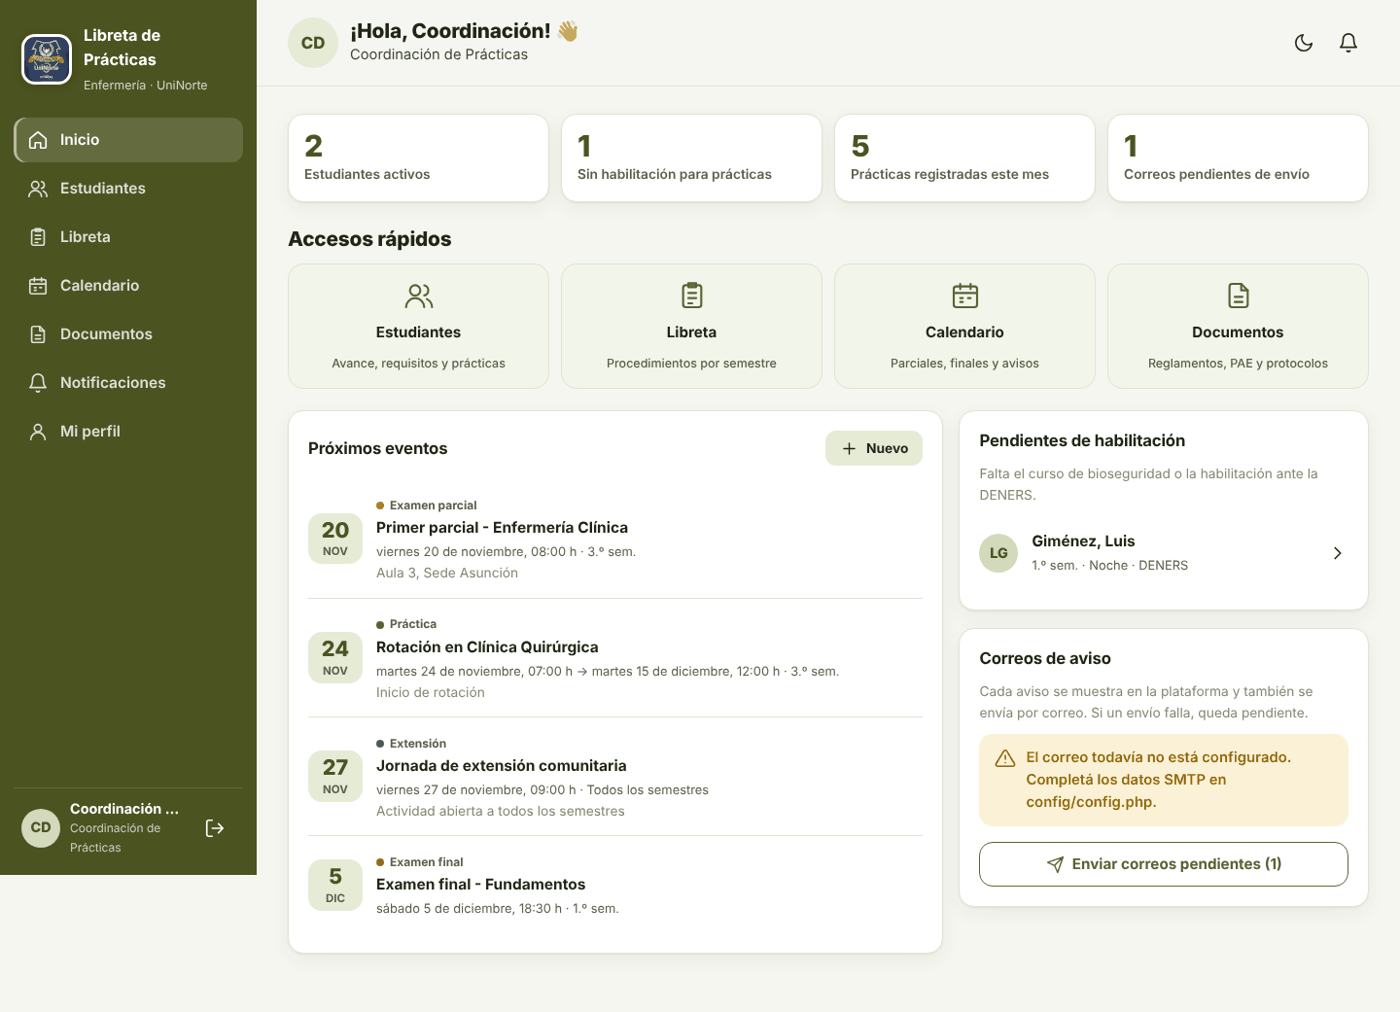
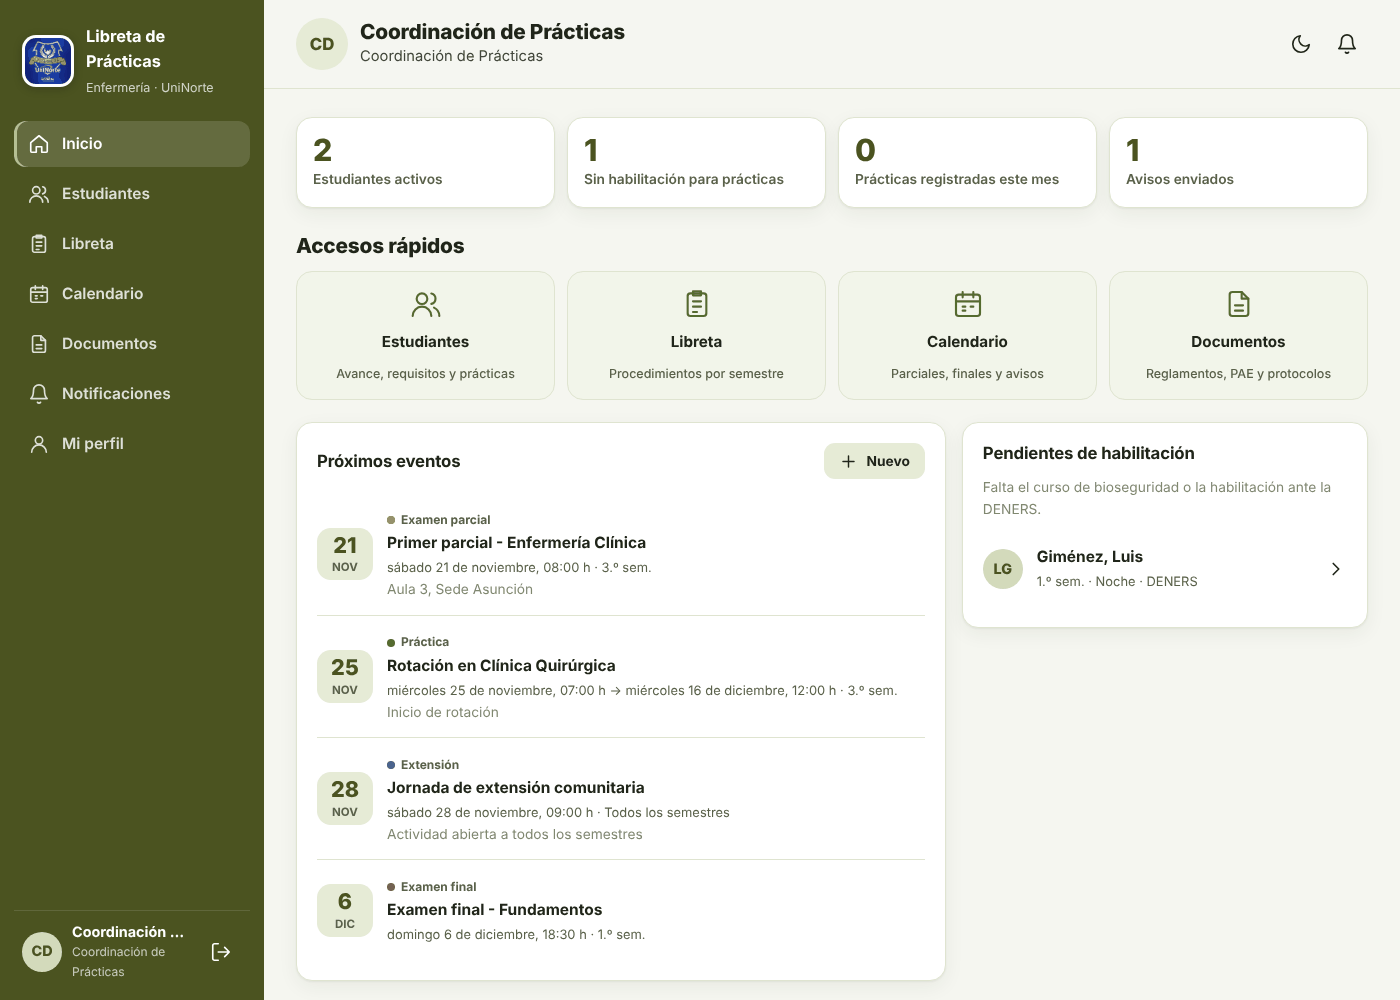
Actualizacion de la plataforma

diff --git a/docs/assets/demo.js b/docs/assets/demo.js
@@ -245,7 +245,7 @@
     ids.forEach(function (id) {
       DB.notificaciones.push({ id: nuevoId(DB.notificaciones), usuario: id, titulo: titulo, mensaje: mensaje, enlace: enlace || null, leida: false, fecha: ahoraISO() });
     });
-    return ' Se notificó en la plataforma a ' + ids.length + ' estudiante(s); el correo se envía en la versión completa.';
+    return ' Se notificó a ' + ids.length + ' estudiante(s).';
   }
 
   // ------------------------------------------------------------------
@@ -278,9 +278,6 @@
       ['calendario', 'Calendario', 'calendario', '#/calendario'], ['documentos', 'Documentos', 'documento', '#/documentos'],
       ['perfil', 'Perfil', 'usuario', '#/perfil']];
   }
-  function banda() {
-    return '<div class="demo-banda">Versión de demostración: los cambios se guardan solo en este navegador. <button type="button" data-reiniciar>Reiniciar datos</button></div>';
-  }
   function layout(titulo, activo, cuerpo, opc) {
     opc = opc || {};
     var u = yo(), n = sinLeer(u.id);
@@ -294,7 +291,7 @@
       return '<a href="' + m[3] + '" class="' + (m[0] === activo ? 'activo' : '') + '">' + ico(m[2]) + '<span>' + m[1] + '</span></a>';
     }).join('');
     var cabecera = opc.saludo
-      ? '<div class="saludo"><div class="avatar avatar-grande">' + e(iniciales(u.nombre, u.apellido)) + '</div><div><h1>¡Hola, ' + e(u.nombre) + '! 👋</h1><p>' + e(cargo) + '</p></div></div>'
+      ? '<div class="saludo"><div class="avatar avatar-grande">' + e(iniciales(u.nombre, u.apellido)) + '</div><div><h1>' + e(u.nombre + ' ' + u.apellido) + '</h1><p>' + e(cargo) + '</p></div></div>'
       : (opc.volver ? '<a class="btn-icono solo-movil" href="' + opc.volver + '" aria-label="Volver">' + ico('flecha_izq') + '</a>' : '') + '<h1 class="barra-titulo">' + e(titulo) + '</h1>';
     var fl = avisos.map(function (a) {
       return '<div class="aviso aviso-' + a.tipo + '" role="status">' + ico(a.tipo === 'error' ? 'alerta' : 'check_circulo') + '<span>' + e(a.msg) + '</span></div>';
@@ -307,7 +304,7 @@
       '<span><strong>Libreta de Prácticas</strong><small>Enfermería · UniNorte</small></span></a><nav class="lateral-nav">' + lat + '</nav>' +
       '<div class="lateral-pie"><div class="avatar">' + e(iniciales(u.nombre, u.apellido)) + '</div><div class="lateral-usuario"><strong>' + e(u.nombre + ' ' + u.apellido) + '</strong><small>' + e(cargo) + '</small></div>' +
       '<button class="btn-icono" type="button" data-salir title="Cerrar sesión" aria-label="Cerrar sesión">' + ico('salir') + '</button></div></aside>' +
-      '<div class="marco">' + banda() + '<header class="barra ' + (opc.saludo ? 'barra-saludo' : '') + '">' + cabecera +
+      '<div class="marco"><header class="barra ' + (opc.saludo ? 'barra-saludo' : '') + '">' + cabecera +
       '<div class="barra-acciones">' + botonTema() + '<a class="btn-icono campana" href="#/notificaciones" aria-label="Notificaciones">' + ico('campana') + (n ? '<b class="punto">' + (n > 9 ? '9+' : n) + '</b>' : '') + '</a>' +
       '<button class="btn-icono solo-movil" type="button" data-salir aria-label="Cerrar sesión">' + ico('salir') + '</button></div></header>' +
       '<main id="contenido" class="contenido">' + fl + cuerpo + '</main></div>' +
@@ -345,15 +342,7 @@
     document.body.className = 'sin-lateral';
     var err = avisos.map(function (a) { return '<div class="aviso aviso-' + a.tipo + '" role="alert">' + ico('alerta') + '<span>' + e(a.msg) + '</span></div>'; }).join('');
     avisos = [];
-    var cuentas = [
-      ['coordinacion@enfermeria.test', 'Admin2026!', 'Coordinación de Prácticas', 'Administrador'],
-      ['direccion@enfermeria.test', 'Admin2026!', 'Dirección de Carrera', 'Administrador'],
-      ['ana.benitez@enfermeria.test', 'Estudiante2026!', 'Ana Benítez', 'Estudiante · 3.º semestre'],
-      ['luis.gimenez@enfermeria.test', 'Estudiante2026!', 'Luis Giménez', 'Estudiante · 1.º semestre, sin DENERS']
-    ].map(function (c) {
-      return '<button type="button" class="cuenta-demo" data-cuenta="' + c[0] + '|' + c[1] + '"><div class="avatar">' + e(iniciales(c[2].split(' ')[0], c[2].split(' ')[1] || '')) + '</div><span><strong>' + e(c[2]) + '</strong><small class="muy-tenue">' + e(c[3]) + '</small></span></button>';
-    }).join('');
-    return banda() + '<div class="ingreso"><section class="ingreso-arte">' + botonTema('ingreso-tema') +
+    return '<div class="ingreso"><section class="ingreso-arte">' + botonTema('ingreso-tema') +
       '<div class="latido">' + ico('pulso') + '</div><div class="ingreso-logo"><img src="assets/logo-enfermeria.png" alt="Logo oficial de la Carrera de Enfermería, Universidad del Norte"></div>' +
       '<h1>Libreta de Prácticas</h1><span class="pildora">Enfermería</span><p>Plataforma académica de la Carrera de Enfermería · Universidad del Norte</p>' +
       '<svg class="ondas" viewBox="0 0 1440 120" preserveAspectRatio="none" aria-hidden="true"><path fill="currentColor" d="M0 64c180 40 360 56 540 40S900 24 1080 24s300 32 360 48v48H0z"/></svg></section>' +
@@ -363,7 +352,7 @@
       '<div class="campo"><label for="clave">Contraseña</label><div class="input-icono">' + ico('candado') +
       '<input id="clave" name="clave" type="password" autocomplete="current-password" required placeholder="••••••••"></div></div>' +
       '<button class="btn btn-bloque" type="submit">Iniciar sesión</button></form>' +
-      '<p class="muy-tenue" style="margin:18px 0 0">Cuentas de prueba (tocá una para completar los datos):</p><div class="cuentas-demo">' + cuentas + '</div></div></section></div>';
+      '<p class="muy-tenue" style="margin-top:18px;text-align:center">¿Olvidaste tu contraseña o no tenés cuenta?<br>Solicitala a la Coordinación de Prácticas.</p></div></section></div>';
   };
 
   V.inicio = function () {
@@ -546,7 +535,7 @@
         '<div class="form-fila"><div class="campo"><label for="da">Área <small>(opcional)</small></label><input id="da" name="area" type="text" value="' + e(v.area || '') + '"></div>' +
         '<div class="campo"><label for="dv">Versión</label><input id="dv" name="version" type="text" value="' + e(v.version) + '"></div></div>' +
         '<div class="campo"><label for="dd">Descripción</label><textarea id="dd" name="descripcion" rows="3">' + e(v.descripcion || '') + '</textarea></div>' +
-        '<div class="campo"><label for="da2">Archivo PDF <small>(en la demo, hasta 2 MB)</small></label><input id="da2" name="archivo" type="file" accept="application/pdf"></div>' +
+        '<div class="campo"><label for="da2">Archivo PDF <small>(hasta 2 MB)</small></label><input id="da2" name="archivo" type="file" accept="application/pdf"></div>' +
         '<label class="casilla"><input type="checkbox" name="publicado" value="1"' + (v.publicado ? ' checked' : '') + '> Visible para estudiantes</label>' +
         '<label class="casilla"><input type="checkbox" name="notificar" value="1"> Avisar a los estudiantes si se sube un archivo</label>' +
         '<div class="acciones" style="margin-top:8px"><button class="btn" type="submit">' + ico('check') + 'Guardar</button>' + (ed ? '<a class="btn btn-suave" href="#/documentos">Cancelar</a>' : '') + '</div></form></section>';
@@ -563,12 +552,12 @@
     var lista = DB.notificaciones.filter(function (n) { return n.usuario === u.id; }).sort(function (a, b) { return a.fecha < b.fecha ? 1 : (a.fecha > b.fecha ? -1 : b.id - a.id); });
     var n = lista.filter(function (x) { return !x.leida; }).length;
     var icono = function (t) { return /alendario|Evento|fecha/.test(t) ? 'calendario' : (/ráctica/.test(t) ? 'check_circulo' : (/emestre/.test(t) ? 'birrete' : (/ocumento/.test(t) ? 'documento' : 'campana'))); };
-    return layout('Notificaciones', 'notificaciones', '<div style="max-width:760px"><div class="tarjeta-titulo"><p class="tenue" style="margin:0">' + (n ? 'Tenés ' + n + ' sin leer.' : 'Estás al día.') + ' En la versión completa los avisos también llegan a <strong>' + e(u.email) + '</strong>.</p>' +
+    return layout('Notificaciones', 'notificaciones', '<div style="max-width:760px"><div class="tarjeta-titulo"><p class="tenue" style="margin:0">' + (n ? 'Tenés ' + n + ' sin leer.' : 'Estás al día.') + '</p>' +
       (n ? '<form data-accion="leer-todas"><button class="btn btn-suave btn-chico" type="submit">' + ico('check') + 'Marcar todas como leídas</button></form>' : '') + '</div>' +
       (lista.length ? '' : '<div class="tarjeta vacio">' + ico('campana') + 'Todavía no tenés notificaciones.</div>') +
       lista.map(function (x) {
         return '<article class="notif ' + (x.leida ? '' : 'nueva') + '"><div class="icono-circulo">' + ico(icono(x.titulo)) + '</div><div class="lista-cuerpo"><strong>' + e(x.titulo) + '</strong><p style="margin:2px 0 4px">' + e(x.mensaje) + '</p><small>' + hace(x.fecha) + '</small>' +
-          '<div class="canales"><span class="etiqueta-estado e-exito">' + ico('campana') + 'Plataforma</span><span class="etiqueta-estado e-neutro">' + ico('correo') + 'Correo (versión completa)</span></div></div>' +
+          '</div>' +
           (x.enlace ? '<button class="btn-icono" type="button" data-abrir-notif="' + x.id + '" aria-label="Abrir">' + ico('flecha_der') + '</button>' : '') + '</article>';
       }).join('') + '</div>');
   };
@@ -757,12 +746,12 @@
       if (!id) DB.documentos.push(doc);
       var msg = '';
       if (dataUrl && d.notificar) msg = notificar(estudiantes().filter(function (s) { return s.activo; }).map(function (s) { return s.id; }), 'Documento actualizado', '«' + doc.titulo + '» (versión ' + doc.version + ') ya está disponible para consulta.', '#/documentos?cat=' + doc.categoria);
-      if (!guardar()) { doc.archivo = null; flash('error', 'El navegador no tiene espacio para guardar ese PDF. Probá con uno más liviano.'); }
+      if (!guardar()) { doc.archivo = null; flash('error', 'No se pudo guardar ese PDF. Probá con uno más liviano.'); }
       else flash('exito', 'Documento guardado.' + msg);
       ir('#/documentos?cat=' + doc.categoria);
     };
     if (!file) return terminar(null);
-    if (file.size > 2 * 1024 * 1024) { flash('error', 'En la demo el PDF puede pesar hasta 2 MB.'); return render(); }
+    if (file.size > 2 * 1024 * 1024) { flash('error', 'El PDF puede pesar hasta 2 MB.'); return render(); }
     var lector = new FileReader();
     lector.onload = function () {
       if (String(lector.result).indexOf('data:application/pdf') !== 0) { flash('error', 'El archivo debe ser un PDF.'); return render(); }
@@ -801,7 +790,7 @@
     for (var n = 1; n <= sem; n++) DB.avance.push({ id: nuevoId(DB.avance), est: id, sem: n, estado: n < sem ? 'aprobado' : 'cursando', fecha: n < sem ? hoyISO() : null });
     DB.prereq.push({ est: id, bio: !!d.bio, fbio: d.bio ? hoyISO() : null, den: !!d.den, fden: d.den ? hoyISO() : null });
     notificar([id], 'Bienvenida a la plataforma', 'Tu cuenta fue creada. Ya podés consultar tu Libreta Digital de Prácticas, el calendario y los documentos de la carrera.', '#/inicio');
-    guardar(); flash('exito', 'Estudiante creado. Usuario: ' + d.email.trim().toLowerCase() + ' · contraseña temporal: ' + d.clave);
+    guardar(); flash('exito', 'Estudiante creado. Entregale su usuario (' + d.email.trim().toLowerCase() + ') y la contraseña temporal.');
     ir('#/admin/estudiante?id=' + id);
   };
   A['est-requisitos'] = function (d) {

diff --git a/docs/index.html b/docs/index.html
@@ -10,16 +10,7 @@
   <link rel="preconnect" href="https://fonts.googleapis.com">
   <link rel="preconnect" href="https://fonts.gstatic.com" crossorigin>
   <link href="https://fonts.googleapis.com/css2?family=Plus+Jakarta+Sans:wght@400;500;600;700;800&display=swap" rel="stylesheet">
-  <link rel="stylesheet" href="assets/app.css?v=2">
-  <style>
-    .demo-banda { background: #E9B949; color: #2B2205; font-size: .8rem; font-weight: 700; text-align: center; padding: 6px 12px; }
-    .demo-banda button { background: none; border: 0; color: inherit; font: inherit; text-decoration: underline; cursor: pointer; padding: 0 4px; }
-    .cuentas-demo { display: grid; gap: 8px; margin-top: 16px; }
-    .cuenta-demo { display: flex; align-items: center; gap: 10px; width: 100%; text-align: left; padding: 10px 12px; border-radius: 12px;
-      border: 1.5px dashed var(--borde); background: var(--superficie-2); color: var(--texto); font: inherit; cursor: pointer; }
-    .cuenta-demo:hover { border-color: var(--musgo); }
-    .cuenta-demo small { display: block; }
-  </style>
+  <link rel="stylesheet" href="assets/app.css?v=3">
   <script>
     (function () {
       var t = null;
@@ -32,6 +23,6 @@
 <body>
   <div id="app"></div>
   <noscript>Esta plataforma necesita JavaScript activado.</noscript>
-  <script src="assets/demo.js?v=1"></script>
+  <script src="assets/demo.js?v=2"></script>
 </body>
 </html>

diff --git a/includes/layout.php b/includes/layout.php
@@ -96,7 +96,7 @@ function layout_inicio(string $titulo, string $activo = '', array $opc = []): vo
     <?php if (!empty($opc['saludo'])): ?>
       <div class="saludo">
         <div class="avatar avatar-grande"><?= e(iniciales($u['nombre'], $u['apellido'])) ?></div>
-        <div><h1>¡Hola, <?= e($u['nombre']) ?>! 👋</h1>
+        <div><h1><?= e($u['nombre'] . ' ' . $u['apellido']) ?></h1>
           <p><?= e($u['rol'] === 'admin' ? ($u['cargo'] ?: 'Administrador') : 'Estudiante de Enfermería') ?></p></div>
       </div>
     <?php else: ?>

diff --git a/README.md b/README.md
@@ -10,7 +10,9 @@ Funciona en computadora y celular, con **modo claro y oscuro**.
 
 **https://centurionbrisa643-prog.github.io/plataforma-enfermeria/**
 
-Se abre en el navegador, en computadora o celular, sin instalar nada. En la pantalla de ingreso hay botones con las **cuentas de prueba** (administrador y estudiantes). Es una versión de demostración: los cambios se guardan solo en el navegador de cada persona y se pueden reiniciar con "Reiniciar datos". La versión completa, con PostgreSQL y envío de correos, se instala como se explica más abajo.
+Se abre en el navegador, en computadora o celular, sin instalar nada. Para ingresar, usá los [usuarios de prueba](#usuarios-de-prueba).
+
+En esta versión web los datos se guardan en el navegador de cada persona; la versión con PostgreSQL y envío de correos se instala como se explica más abajo.
 
 ![Panel de Coordinación](docs/capturas/escritorio-admin.png)
 
@@ -138,7 +140,7 @@ plataforma-enfermeria/
 ├── calendario.php  documentos.php  notificaciones.php  perfil.php
 ├── storage/documentos/        ← PDFs subidos (no accesibles directamente)
 ├── tareas/enviar_correos.php  ← reintento de correos
-├── docs/capturas/             ← imágenes de este README
+├── docs/                      ← versión demo para GitHub Pages y capturas
 ├── router.php                 ← servidor de desarrollo de PHP
 └── *.bat                      ← arranque rápido en Windows
 ```
